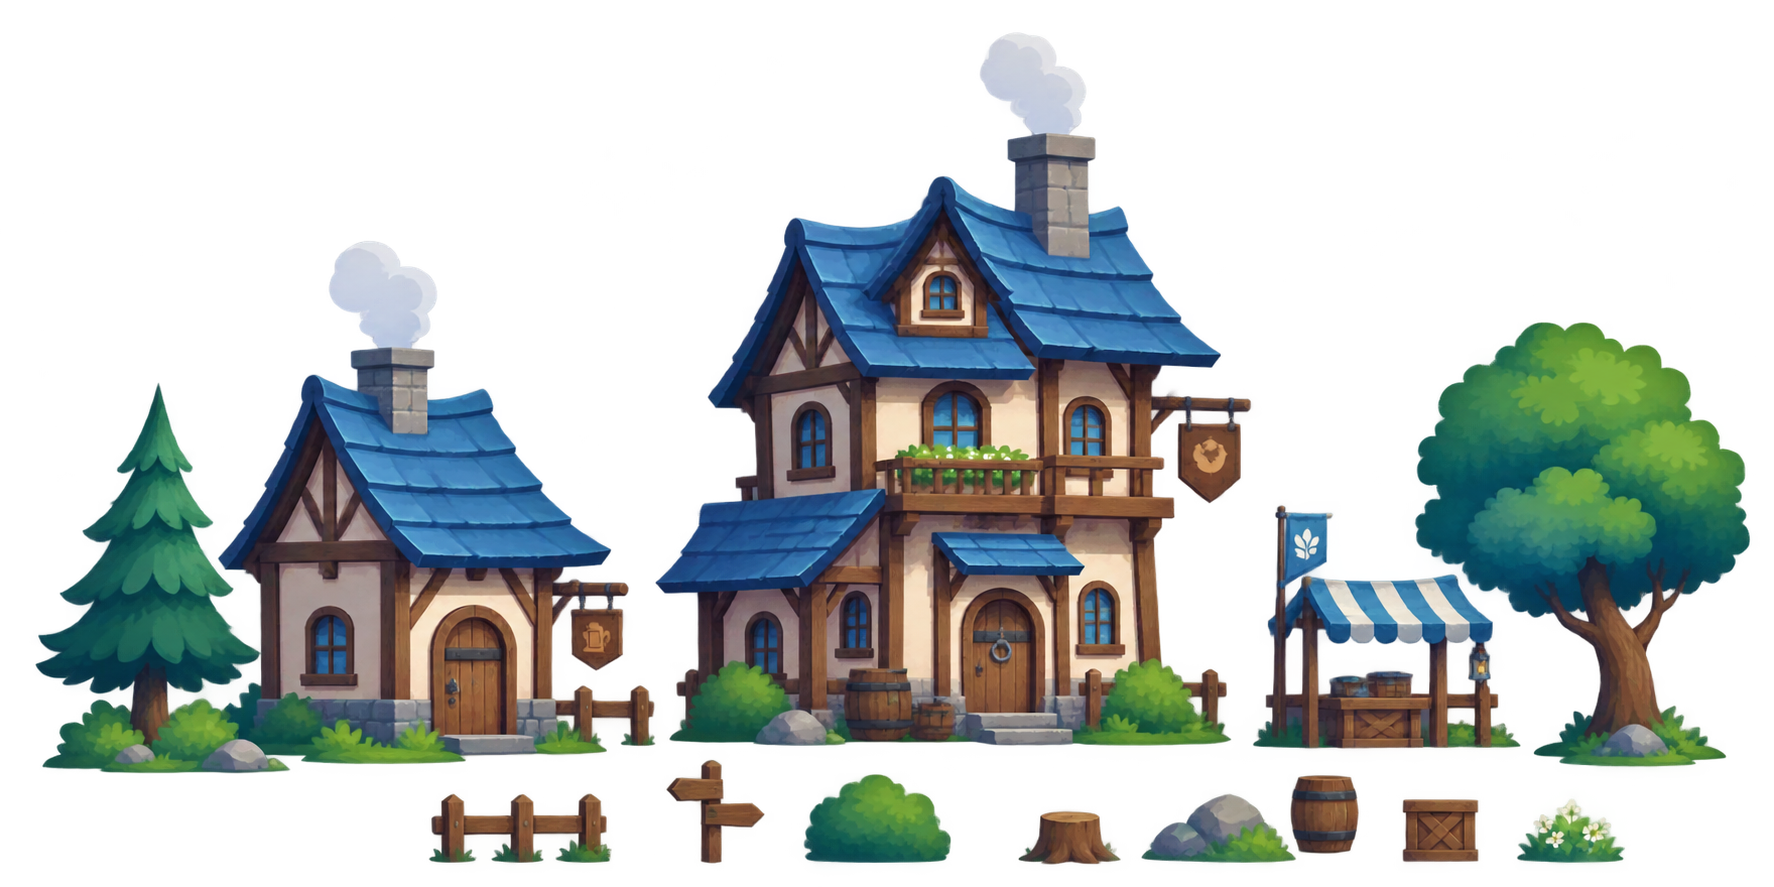
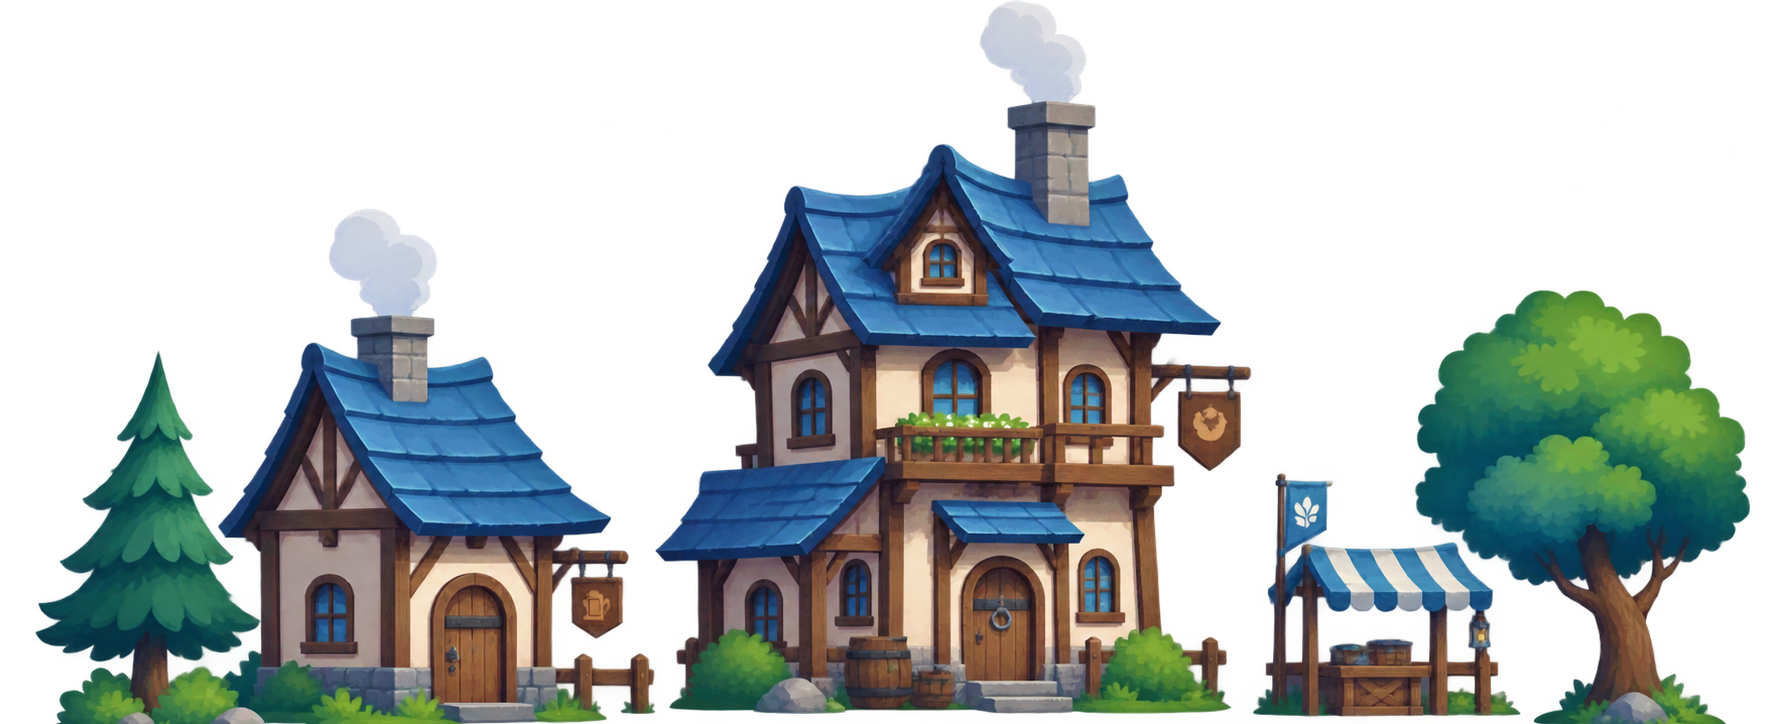
site

diff --git a/helper.js b/helper.js
@@ -2,6 +2,8 @@ const avatar = document.getElementById("avatar")
 const root = document.documentElement
 var pastProgress = 0
 
+const paralaxSpeeds = [0.2, 0.45];
+
 document.addEventListener("scroll", (event) =>
 {
     var positionX = window.scrollX;
@@ -13,6 +15,15 @@ document.addEventListener("scroll", (event) =>
         avatar.classList.add("face-right");
     else if (progress > pastProgress)
         avatar.classList.remove("face-right");
+
+    var positions = "";
+    for (var i = 0; 1 < paralaxSpeeds.lenght; i++)
+    {    
+        if (i > 0)
+            positions += ", ";
+    }
+
+    document.body.style.backgroundPositionX = positions;
 
     avatar.style.left = progress + "px";
 
